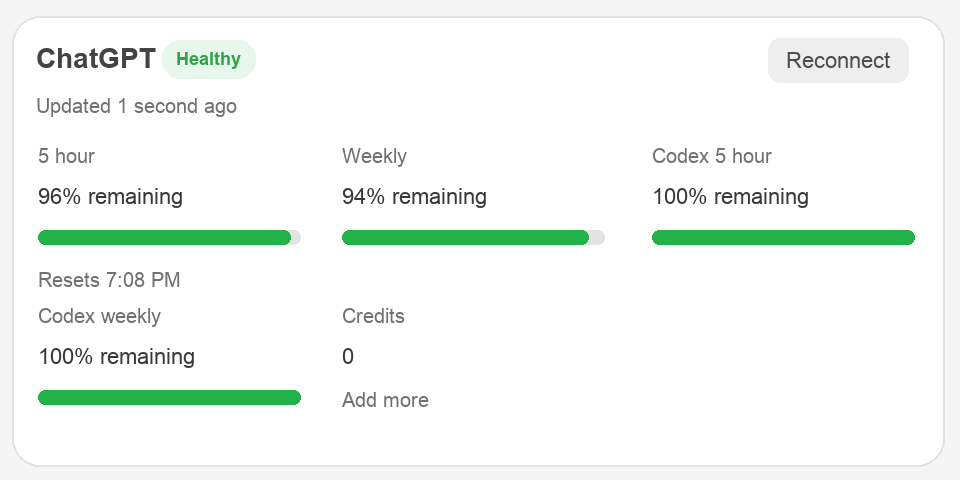
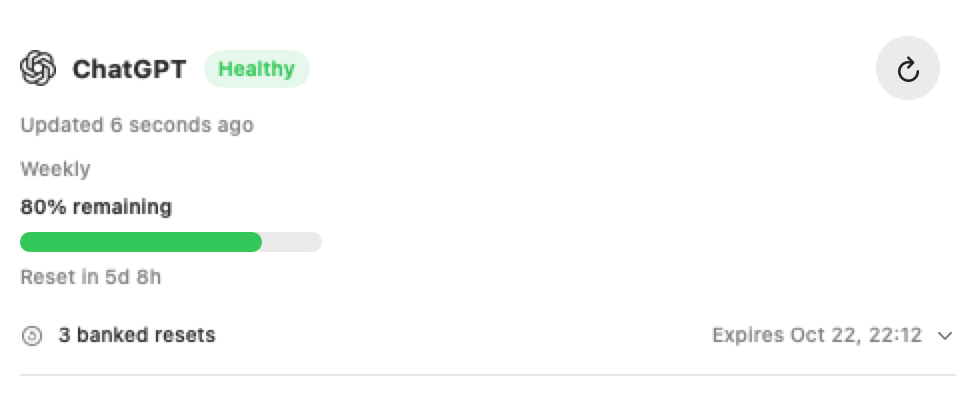
release: prepare 1.0.43 downloads and current app showcase

diff --git a/landing/index.html b/landing/index.html
@@ -4,7 +4,7 @@
   <meta charset="utf-8">
   <meta name="viewport" content="width=device-width, initial-scale=1">
   <title>Token Monitor for macOS | Claude, ChatGPT &amp; Codex usage</title>
-  <meta name="description" content="See Claude, ChatGPT, Codex, and optional OpenCode Go usage from one local macOS menu bar app. Check limits, reset windows, and connection status without opening multiple dashboards.">
+  <meta name="description" content="Check remaining Claude, ChatGPT/Codex and OpenCode Go capacity in your Mac menu bar. Add multiple accounts and optionally explore local token usage by project or topic.">
   <meta name="theme-color" content="#090b13">
   <meta property="og:type" content="website">
   <meta property="og:title" content="Token Monitor for macOS">
@@ -139,6 +139,7 @@
     .detail-head { display: flex; align-items: center; justify-content: space-between; gap: 16px; margin-bottom: 16px; }
     .detail-head span { color: var(--green); font-size: .76rem; font-weight: 800; text-transform: uppercase; letter-spacing: .08em; }
     .detail img { display: block; width: 100%; border: 1px solid rgba(255,255,255,.10); border-radius: 12px; background: #fff; }
+    .detail p { margin: 16px 0 0; color: var(--muted); }
 
     .privacy-grid { display: grid; grid-template-columns: .9fr 1.1fr; gap: 64px; align-items: start; }
     .privacy-copy p { color: var(--muted); font-size: 1.06rem; }
@@ -264,23 +265,23 @@
           </div>
           <div data-lang="de">
             <h1>Deine AI-Limits. Einen Klick entfernt.</h1>
-            <p class="hero-copy">Sieh Nutzung und Reset-Zeiten, bevor eine lange Aufgabe ins Limit läuft. Token Monitor hält jeden Provider in deiner macOS-Menüleiste sichtbar.</p>
+            <p class="hero-copy">Sieh verbleibende Kapazität und Reset-Zeiten, bevor eine lange Aufgabe ins Limit läuft. Token Monitor hält jeden Provider in deiner macOS-Menüleiste sichtbar.</p>
           </div>
           <div class="actions">
-            <a class="button button-primary" href="https://github.com/MediaPublishing/token-monitor/releases/download/v1.0.42/TokenMonitor-macOS.dmg">
+            <a class="button button-primary" href="https://github.com/MediaPublishing/token-monitor/releases/download/v1.0.43/TokenMonitor-macOS.dmg">
               <span aria-hidden="true">↓</span>
               <span data-lang="en" class="active">Download for macOS</span><span data-lang="de">Für macOS laden</span>
             </a>
             <a class="button button-secondary" href="#product"><span data-lang="en" class="active">See the app</span><span data-lang="de">App ansehen</span></a>
           </div>
-          <p class="hero-note"><span>●</span> <span data-lang="en" class="active">Public preview v1.0.42 · macOS 14+</span><span data-lang="de">Öffentliche Preview v1.0.42 · macOS 14+</span></p>
+          <p class="hero-note"><span>●</span> <span data-lang="en" class="active">Public preview v1.0.43 · macOS 14+</span><span data-lang="de">Öffentliche Preview v1.0.43 · macOS 14+</span></p>
         </div>
 
         <div class="app-stage" aria-label="Token Monitor product preview">
           <div class="orb" aria-hidden="true"></div>
           <div class="window">
             <div class="window-bar"><span class="traffic" aria-hidden="true"><i></i><i></i><i></i></span><span>Token Monitor</span></div>
-            <img src="../assets/screenshots/app/dashboard.png" alt="Token Monitor dashboard showing Claude and ChatGPT usage">
+            <img src="../assets/screenshots/app/dashboard.png" alt="Token Monitor capacity dashboard with synthetic example data for ChatGPT, Claude and OpenCode Go">
           </div>
           <span class="provider-chip chip-claude">Claude</span>
           <span class="provider-chip chip-chatgpt">ChatGPT + Codex</span>
@@ -305,7 +306,7 @@
           <div data-lang="de"><h2>Wisse vor dem Start, ob noch genug Luft ist.</h2><p>Entscheidend ist nicht, wie viele Tokens ein Modell theoretisch hat. Entscheidend ist, ob dein Account für die nächste Aufgabe noch genug Kapazität hat.</p></div>
         </div>
         <div class="feature-grid">
-          <article class="feature"><div class="feature-icon">01</div><h3 data-lang="en" class="active">Check all providers together</h3><h3 data-lang="de">Alle Provider zusammen prüfen</h3><p data-lang="en" class="active">Claude, ChatGPT/Codex, and optional OpenCode Go stay visible. Add named accounts when you use more than one.</p><p data-lang="de">Claude, ChatGPT/Codex und optional OpenCode Go bleiben sichtbar. Weitere Accounts kannst du hinzufügen und benennen.</p></article>
+          <article class="feature"><div class="feature-icon">01</div><h3 data-lang="en" class="active">Check all providers together</h3><h3 data-lang="de">Alle Provider zusammen prüfen</h3><p data-lang="en" class="active">Claude, ChatGPT/Codex, and optional OpenCode Go stay visible. Name additional accounts and show them side by side in the menu bar.</p><p data-lang="de">Claude, ChatGPT/Codex und optional OpenCode Go bleiben sichtbar. Benenne weitere Accounts und zeige sie nebeneinander in der Menüleiste.</p></article>
           <article class="feature"><div class="feature-icon">02</div><h3 data-lang="en" class="active">Keep reset windows intact</h3><h3 data-lang="de">Reset-Fenster richtig einordnen</h3><p data-lang="en" class="active">Daily, weekly, session, model, and credit limits stay separate because providers do not measure usage the same way.</p><p data-lang="de">Daily, Weekly, Session, Modell und Credits bleiben getrennt, weil Provider Nutzung unterschiedlich messen.</p></article>
           <article class="feature"><div class="feature-icon">03</div><h3 data-lang="en" class="active">Keep saved resets in mind</h3><h3 data-lang="de">Gespeicherte Resets im Blick behalten</h3><p data-lang="en" class="active">Check banked ChatGPT/Codex resets and their expiry. Enable local reminders 3 days ahead with macOS permission. Resets are never used automatically.</p><p data-lang="de">Prüfe gespeicherte ChatGPT-/Codex-Resets samt Ablaufdatum. Aktiviere mit macOS-Freigabe lokale Erinnerungen 3 Tage vorher. Resets werden nie automatisch eingelöst.</p></article>
         </div>
@@ -317,12 +318,15 @@
         <div class="showcase">
           <div class="showcase-top">
             <div><div class="kicker active" data-lang="en">Real app interface</div><div class="kicker" data-lang="de">Echte App-Ansicht</div><h2 data-lang="en" class="active">The current state at a glance.</h2><h2 data-lang="de">Der aktuelle Stand auf einen Blick.</h2></div>
-            <p data-lang="en" class="active">Token Monitor preserves the language and limits of each provider. Green means capacity remains. Authentication and stale states stay visible instead of being hidden.</p><p data-lang="de">Token Monitor bewahrt die Logik und Limits jedes Providers. Grün zeigt verbleibende Kapazität. Login- und veraltete Zustände bleiben sichtbar, statt versteckt zu werden.</p>
+            <p data-lang="en" class="active">Choose Session, Total or Both for menu-bar capacity. The popover fits your accounts and expanded details; it scrolls only when the screen cannot fit them. Authentication and stale states remain visible.</p><p data-lang="de">Wähle Session, Total oder Both für die Menüleisten-Kapazität. Das Popover passt sich deinen Accounts und aufgeklappten Details an. Es scrollt nur, wenn der Bildschirm nicht genug Platz bietet. Login- und veraltete Zustände bleiben sichtbar.</p>
           </div>
-          <div class="dashboard-frame"><img src="../assets/screenshots/app/dashboard.png" alt="Full Token Monitor menu bar dashboard"></div>
+          <p class="hero-note"><span data-lang="en" class="active">Native app views · Example data · Version 1.0.43</span><span data-lang="de">Native App-Ansichten · Beispieldaten · Version 1.0.43</span></p>
+          <div class="dashboard-frame"><img src="../assets/screenshots/app/dashboard.png" alt="Full Token Monitor capacity dashboard with synthetic example data"></div>
           <div class="details-grid">
             <article class="detail"><div class="detail-head"><h3>Claude</h3><span data-lang="en" class="active">Session + models</span><span data-lang="de">Session + Modelle</span></div><img src="../assets/screenshots/app/claude.png" alt="Claude usage details in Token Monitor"></article>
-            <article class="detail"><div class="detail-head"><h3>ChatGPT + Codex</h3><span data-lang="en" class="active">Daily + weekly</span><span data-lang="de">Daily + Weekly</span></div><img src="../assets/screenshots/app/chatgpt.png" alt="ChatGPT and Codex usage details in Token Monitor"></article>
+            <article class="detail"><div class="detail-head"><h3>ChatGPT + Codex</h3><span data-lang="en" class="active">Limits + saved resets</span><span data-lang="de">Limits + Resets</span></div><img src="../assets/screenshots/app/chatgpt.png" alt="ChatGPT capacity and saved resets with example data"></article>
+            <article class="detail"><div class="detail-head"><h3 data-lang="en" class="active">Local analysis</h3><h3 data-lang="de">Lokale Analyse</h3><span data-lang="en" class="active">Optional</span><span data-lang="de">Optional</span></div><img src="../assets/screenshots/app/analysis.png" alt="Optional local project analysis with expanded threads and synthetic data" width="976" height="812" loading="lazy"><p data-lang="en" class="active">Enable Show analysis in Settings. Group recorded Codex and Claude Code tokens by project or assigned topic, then expand a group to its threads. Local logs may be incomplete; this is not your remaining provider capacity. No money estimates or history timeline.</p><p data-lang="de">Aktiviere Show analysis in den Settings. Gruppiere erfasste Codex- und Claude-Code-Tokens nach Projekt oder zugewiesenem Thema und klappe die Threads auf. Lokale Protokolle können unvollständig sein; das ist nicht deine verbleibende Provider-Kapazität. Ohne Geldschätzungen und Verlauf.</p></article>
+            <article class="detail"><div class="detail-head"><h3>Settings</h3><span data-lang="en" class="active">Your preferences</span><span data-lang="de">Deine Einstellungen</span></div><img src="../assets/screenshots/app/settings.png" alt="Compact Token Monitor Settings with provider logos and version number" width="976" height="1482" loading="lazy"><p data-lang="en" class="active">Keep named accounts, menu-bar limits, reset reminders and optional analysis together. Notification permission problems link directly to macOS Settings.</p><p data-lang="de">Verwalte benannte Accounts, Menüleisten-Limits, Reset-Erinnerungen und optionale Analyse an einem Ort. Bei fehlender Mitteilungsfreigabe öffnest du direkt die passenden macOS-Einstellungen.</p></article>
           </div>
         </div>
       </div>
@@ -335,7 +339,7 @@
           <div data-lang="en" class="active"><h2>Your usage check stays on your Mac.</h2><p>Token Monitor uses separate embedded WebKit sessions for each provider. It does not require a hosted Token Monitor account or merge your providers into a remote dashboard.</p></div>
           <div data-lang="de"><h2>Dein Usage-Check bleibt auf deinem Mac.</h2><p>Token Monitor nutzt getrennte eingebettete WebKit-Sessions für jeden Provider. Die App braucht kein gehostetes Token-Monitor-Konto und führt deine Provider nicht in einem fremden Online-Dashboard zusammen.</p></div>
           <ul class="checks">
-            <li data-lang="en" class="active">Separate login storage for every provider</li><li data-lang="de">Getrennter Login-Speicher für jeden Provider</li>
+            <li data-lang="en" class="active">Separate persistent login storage for every account</li><li data-lang="de">Eigener dauerhafter Login-Speicher für jeden Account</li>
             <li data-lang="en" class="active">Latest successful usage snapshots stored locally</li><li data-lang="de">Letzte erfolgreiche Usage-Snapshots lokal gespeichert</li>
             <li data-lang="en" class="active">Debug mode off by default</li><li data-lang="de">Debug-Modus standardmäßig aus</li>
             <li data-lang="en" class="active">Open source and independently inspectable</li><li data-lang="de">Open Source und unabhängig prüfbar</li>
@@ -379,8 +383,8 @@
         <div class="faq">
           <details><summary data-lang="en" class="active">Do I need Claude, ChatGPT, and OpenCode Go?</summary><summary data-lang="de">Brauche ich Claude, ChatGPT und OpenCode Go?</summary><p data-lang="en" class="active">No. Connect Claude, ChatGPT, or both. OpenCode Go monitoring is optional and off by default.</p><p data-lang="de">Nein. Verbinde Claude, ChatGPT oder beide. OpenCode Go ist optional und standardmäßig ausgeschaltet.</p></details>
           <details><summary data-lang="en" class="active">Does Token Monitor reuse browser cookies?</summary><summary data-lang="de">Verwendet Token Monitor meine Browser-Cookies?</summary><p data-lang="en" class="active">No. Every provider uses its own persistent WebKit session inside the app.</p><p data-lang="de">Nein. Jeder Provider nutzt eine eigene persistente WebKit-Session in der App.</p></details>
-          <details><summary data-lang="en" class="active">Can I use multiple accounts with one provider?</summary><summary data-lang="de">Kann ich mehrere Accounts eines Providers nutzen?</summary><p data-lang="en" class="active">Yes. Add and name accounts in Settings. Each additional account has separate persistent sign-in data and its own dashboard section. Select which account appears in the menu bar.</p><p data-lang="de">Ja. In den Settings kannst du Accounts hinzufügen und benennen. Jeder zusätzliche Account hat eigene dauerhafte Login-Daten und einen eigenen Dashboard-Bereich. Du wählst aus, welcher Account in der Menüleiste erscheint.</p></details>
-          <details><summary data-lang="en" class="active">How does Token Monitor update?</summary><summary data-lang="de">Wie wird Token Monitor aktualisiert?</summary><p data-lang="en" class="active">The automatic update checks are off by default. Enable them in Settings to check immediately and hourly. Available updates appear in the menu bar and dashboard; choose Review Update to confirm installation. Manual checks and update diagnostics are also available. Updates preserve your sign-ins.</p><p data-lang="de">Ab Version 1.0.22 sind automatische Update-Prüfungen standardmäßig aus. Aktiviere sie in den Settings, um sofort und danach stündlich zu prüfen. Verfügbare Updates erscheinen in Menüleiste und Dashboard; mit Review Update bestätigst du die Installation. Manuelle Prüfungen und Update-Diagnosen sind ebenfalls verfügbar. Updates erhalten deine Anmeldungen.</p></details>
+          <details><summary data-lang="en" class="active">Can I use multiple accounts with one provider?</summary><summary data-lang="de">Kann ich mehrere Accounts eines Providers nutzen?</summary><p data-lang="en" class="active">Yes. Add and name accounts with + in Settings. Each account has its own persistent sign-in and capacity section. Show up to four accounts per provider side by side in the menu bar. Changing the selected account displays its cached capacity immediately.</p><p data-lang="de">Ja. Füge mit + in den Settings Accounts hinzu und benenne sie. Jeder Account hat einen eigenen dauerhaften Login und Kapazitätsbereich. Zeige bis zu vier Accounts je Provider nebeneinander in der Menüleiste. Beim Kontowechsel erscheint die zuletzt erfasste Kapazität sofort.</p></details>
+          <details><summary data-lang="en" class="active">How does Token Monitor update?</summary><summary data-lang="de">Wie wird Token Monitor aktualisiert?</summary><p data-lang="en" class="active">From 1.0.43, automatic update checks are on by default. An existing opt-out is preserved; enable checks in Settings to check immediately and hourly. Choose Review Update to confirm installation. Updates preserve local sign-in storage, though providers can still require reauthentication.</p><p data-lang="de">Ab 1.0.43 sind automatische Update-Prüfungen standardmäßig eingeschaltet. Eine bereits gespeicherte Abschaltung bleibt erhalten. Aktiviere den Schalter in den Settings, um sofort und danach stündlich zu prüfen. Mit Review Update bestätigst du die Installation. Updates erhalten den lokalen Login-Speicher; Provider können trotzdem eine erneute Anmeldung verlangen.</p></details>
           <details><summary data-lang="en" class="active">Is this an official Anthropic or OpenAI app?</summary><summary data-lang="de">Ist das eine offizielle App von Anthropic oder OpenAI?</summary><p data-lang="en" class="active">No. Token Monitor is an independent open-source utility and is not affiliated with Anthropic, OpenAI, or Apple.</p><p data-lang="de">Nein. Token Monitor ist ein unabhängiges Open-Source-Werkzeug und nicht mit Anthropic, OpenAI oder Apple verbunden.</p></details>
           <details><summary data-lang="en" class="active">Why is Token Monitor missing from Login Items?</summary><summary data-lang="de">Warum fehlt Token Monitor bei den Anmeldeobjekten?</summary><p data-lang="en" class="active">Launch at login uses Apple's ServiceManagement API, which expects a code-signed app. Move TokenMonitor.app to Applications, open it once, and enable Launch at login in Settings.</p><p data-lang="de">Launch at login nutzt Apples ServiceManagement-API, die eine signierte App erwartet. Verschiebe TokenMonitor.app nach Applications, öffne sie einmal und aktiviere Launch at login in den Settings.</p></details>
         </div>
@@ -391,7 +395,7 @@
       <div class="shell final-panel">
         <h2 data-lang="en" class="active">Start the next task with the limit in view.</h2><h2 data-lang="de">Starte die nächste Aufgabe mit dem Limit im Blick.</h2>
         <p data-lang="en" class="active">Download the current public preview for macOS or inspect the complete source code on GitHub.</p><p data-lang="de">Lade die aktuelle öffentliche Preview für macOS oder prüfe den vollständigen Source Code auf GitHub.</p>
-        <div class="actions"><a class="button button-primary" href="https://github.com/MediaPublishing/token-monitor/releases/download/v1.0.42/TokenMonitor-macOS.dmg"><span aria-hidden="true">↓</span><span data-lang="en" class="active">Download v1.0.42</span><span data-lang="de">v1.0.42 laden</span></a><a class="button button-secondary" href="https://github.com/MediaPublishing/token-monitor" target="_blank" rel="noopener noreferrer">View on GitHub</a></div>
+        <div class="actions"><a class="button button-primary" href="https://github.com/MediaPublishing/token-monitor/releases/download/v1.0.43/TokenMonitor-macOS.dmg"><span aria-hidden="true">↓</span><span data-lang="en" class="active">Download v1.0.43</span><span data-lang="de">v1.0.43 laden</span></a><a class="button button-secondary" href="https://github.com/MediaPublishing/token-monitor" target="_blank" rel="noopener noreferrer">View on GitHub</a></div>
       </div>
     </section>
   </main>

diff --git a/scripts/native-layout-proof.swift b/scripts/native-layout-proof.swift
@@ -113,11 +113,62 @@ private struct LayoutFixtureAccounts: AccountPersisting {
         precondition(height("capacity-two-light") < height("capacity-three-light"))
         precondition(height("capacity-three-light") < height("capacity-details-light"))
         precondition(height("analysis-closed-light") < height("analysis-open-light"))
+        if CommandLine.arguments.contains("--marketing") {
+            try await writeMarketingScreenshots(analytics: analytics, snapshots: snapshots, window: window, output: output)
+        }
         let data = try JSONSerialization.data(withJSONObject: ["scope": "Native SwiftUI views, synthetic accounts only", "logos": "all decoded as vector PDF", "scenarios": records], options: [.prettyPrinted, .sortedKeys])
         try data.write(to: output.appendingPathComponent("native-layout-proof.json"))
         print("NATIVE_LAYOUT_PROOF_PASS \(String(decoding: data, as: UTF8.self))")
         fflush(stdout)
         window.close()
+    }
+
+    private static func writeMarketingScreenshots(analytics: ProjectAnalyticsModel, snapshots: [ServiceKind: ServiceSnapshot], window: NSWindow, output: URL) async throws {
+        UserDefaults.standard.set(true, forKey: "openCodeGoEnabled")
+        UserDefaults.standard.set(false, forKey: "showUsageDetails")
+        let model = AppModel(snapshotStore: LayoutFixtureSnapshots(snapshots: snapshots),
+                             accountStore: LayoutFixtureAccounts(count: 3, snapshots: snapshots), analytics: analytics)
+        model.popoverMaximumHeight = 900
+        model.showDashboardInPopover()
+        window.appearance = NSAppearance(named: .aqua)
+        let statuses = model.dashboardServices.map { status in
+            var ready = status
+            ready.refreshState = .success(lastSuccess: status.snapshot!.capturedAt)
+            return ready
+        }
+
+        func capture<Content: View>(_ content: Content, name: String) async throws {
+            let hosting = NSHostingController(rootView: content.environmentObject(model).frame(width: 488)
+                .fixedSize(horizontal: false, vertical: true).background(Color(nsColor: .windowBackgroundColor)))
+            window.contentViewController = hosting
+            window.setContentSize(NSSize(width: 488, height: 180))
+            for _ in 0..<12 { try await Task.sleep(for: .milliseconds(50)) }
+            window.setContentSize(hosting.view.fittingSize)
+            hosting.view.layoutSubtreeIfNeeded()
+            let bounds = hosting.view.bounds
+            let bitmap = NSBitmapImageRep(bitmapDataPlanes: nil, pixelsWide: Int(bounds.width * 2), pixelsHigh: Int(bounds.height * 2),
+                                         bitsPerSample: 8, samplesPerPixel: 4, hasAlpha: true, isPlanar: false,
+                                         colorSpaceName: .deviceRGB, bytesPerRow: 0, bitsPerPixel: 0)!
+            bitmap.size = bounds.size
+            hosting.view.cacheDisplay(in: bounds, to: bitmap)
+            try bitmap.representation(using: .png, properties: [:])!.write(to: output.appendingPathComponent(name + ".png"))
+        }
+
+        try await capture(VStack(alignment: .leading, spacing: 10) {
+            PopoverHeaderView(analytics: analytics)
+            VStack(spacing: 0) {
+                ForEach(statuses, id: \.service) { ServiceSectionView(status: $0) }
+            }
+        }.padding(10), name: "dashboard")
+        for status in statuses where status.service != .openCodeGo {
+            try await capture(ServiceSectionView(status: status).padding(10), name: status.service == .claude ? "claude" : "chatgpt")
+        }
+        if let first = analytics.groups.first { analytics.setExpanded(first.id, true) }
+        model.showAnalyticsInPopover()
+        try await capture(PopoverRootView(), name: "analysis")
+        model.showSettingsInPopover()
+        try await capture(PopoverRootView(), name: "settings")
+        print("MARKETING_SCREENSHOTS_PASS: native production views, synthetic data, 2x display scale")
     }
 
     private static func scrollViews(in view: NSView) -> [NSScrollView] {

diff --git a/Tests/TokenMonitorCoreTests/MarketingAssetTests.swift b/Tests/TokenMonitorCoreTests/MarketingAssetTests.swift
@@ -98,8 +98,17 @@ struct MarketingAssetTests {
         #expect(landingHTML.contains("Open Anyway"))
         #expect(landingHTML.contains("Dennoch öffnen"))
         #expect(landingHTML.contains("Login Items"))
-        #expect(landingHTML.contains("automatic update checks are off by default"))
-        #expect(landingHTML.contains("automatische Update-Prüfungen standardmäßig aus"))
+        #expect(landingHTML.contains("automatic update checks are on by default"))
+        #expect(landingHTML.contains("automatische Update-Prüfungen standardmäßig eingeschaltet"))
+        #expect(landingHTML.contains("An existing opt-out is preserved"))
+        #expect(landingHTML.contains("Show analysis"))
+        #expect(landingHTML.contains("Local logs may be incomplete"))
+        #expect(landingHTML.contains("Example data"))
+        for asset in ["analysis", "settings"] {
+            let path = "assets/screenshots/app/\(asset).png"
+            #expect(landingHTML.contains(path))
+            #expect(FileManager.default.fileExists(atPath: rootURL.appendingPathComponent(path).path))
+        }
         #expect(!landingHTML.contains("Would a PKG avoid"))
         #expect(!landingHTML.contains("How do updates work?"))
         let dmgScript = try String(contentsOf: dmgScriptURL, encoding: .utf8)

diff --git a/README.md b/README.md
@@ -5,12 +5,12 @@
 **Token Monitor** ist ein nativer macOS-Menüleisten-Begleiter für Claude, ChatGPT/Codex und optional OpenCode Go: provider-spezifische Limits, getrennte Sessions und Hintergrund-Refresh in einer schlanken Desktop-App.
 
 <p>
-  <a href="https://github.com/MediaPublishing/token-monitor/releases/download/v1.0.42/TokenMonitor-macOS.dmg">
+  <a href="https://github.com/MediaPublishing/token-monitor/releases/download/v1.0.43/TokenMonitor-macOS.dmg">
     <img alt="Download" src="https://img.shields.io/badge/Download-DMG-0A7CFF?style=for-the-badge&logo=apple&logoColor=white">
   </a>
 </p>
 
-> **Repository status / Repository-Status:** Public preview. Current preview release: `v1.0.42`.
+> **Repository status / Repository-Status:** Public preview. Current preview release: `v1.0.43` (build 52).
 
 ![macOS 14+](https://img.shields.io/badge/macOS-14%2B-blue)
 ![Swift 6+](https://img.shields.io/badge/Swift-6%2B-orange)
@@ -20,6 +20,8 @@
 ### Dashboard
 ![Token Monitor dashboard screenshot](assets/screenshots/app/dashboard.png)
 
+Native app views with synthetic example data, not private account usage. / Native App-Ansichten mit synthetischen Beispieldaten, keine privaten Kontodaten.
+
 Watch Claude and ChatGPT/Codex side by side from the macOS menu bar. Enable OpenCode Go in Settings when you want to track its Rolling, Weekly, and Monthly usage too.
 
 Claude und ChatGPT/Codex bleiben direkt in der macOS-Menüleiste nebeneinander sichtbar. OpenCode Go lässt sich in den Settings optional zuschalten.
@@ -27,16 +29,26 @@ Claude und ChatGPT/Codex bleiben direkt in der macOS-Menüleiste nebeneinander s
 ### Claude Usage
 ![Token Monitor Claude usage screenshot](assets/screenshots/app/claude.png)
 
-Keep Claude usage source-native: session, model, Sonnet, balance, extra usage, and reset timing stay separate.
+Keep Claude session, all-model and Fable limits separate, with remaining capacity and reset timing.
 
-Claude bleibt quellnah: Session, Modell, Sonnet, Balance, Extra Usage und Reset-Zeit werden getrennt angezeigt.
+Session, All models und Fable bleiben getrennt, mit verbleibender Kapazität und Reset-Zeiten.
 
 ### ChatGPT + Codex Usage
 ![Token Monitor ChatGPT usage screenshot](assets/screenshots/app/chatgpt.png)
 
-Track ChatGPT daily, weekly, Codex, and credit limits without digging through browser tabs.
+Track the limits reported by ChatGPT/Codex and saved resets without digging through browser tabs.
 
-ChatGPT Daily, Weekly, Codex und Credits bleiben sichtbar, ohne Browser-Tab-Suche.
+Die von ChatGPT/Codex gemeldeten Limits und gespeicherte Resets bleiben ohne Browser-Tab-Suche sichtbar.
+
+### Optional Local Analysis
+![Token Monitor local project analysis with example data](assets/screenshots/app/analysis.png)
+
+Enable **Settings > Project details > Show analysis** to group recorded Codex and Claude Code tokens by project, or by manually assigned topic. Expand a group to its threads. Local logs can be incomplete; these totals are not the provider's remaining capacity. No cost estimates or thread-history timeline.
+
+Mit **Settings > Project details > Show analysis** gruppierst du erfasste Codex- und Claude-Code-Tokens nach Projekt oder selbst zugewiesenem Thema. Gruppen klappen direkt zu ihren Threads auf. Lokale Protokolle können unvollständig sein; die Summen sind nicht die verbleibende Provider-Kapazität. Keine Geldschätzung und kein Thread-Verlauf.
+
+### Settings
+![Token Monitor compact Settings](assets/screenshots/app/settings.png)
 
 ---
 
@@ -77,7 +89,7 @@ Normal users should install from the GitHub Release DMG:
 Current preview release download:
 
 ```text
-https://github.com/MediaPublishing/token-monitor/releases/download/v1.0.42/TokenMonitor-macOS.dmg
+https://github.com/MediaPublishing/token-monitor/releases/download/v1.0.43/TokenMonitor-macOS.dmg
 ```
 
 #### Gatekeeper: If macOS says "TokenMonitor.app" Not Opened
@@ -110,7 +122,7 @@ Token Monitor tries to register itself as a login item when **Launch at login** 
 
 #### Updates
 
-Automatic update checks are off by default from version `1.0.22` through public version `1.0.42`. Local preview `1.0.43 (49)` enables automatic checks by default, while preserving an existing opt-out. From version `1.0.41`, enabling **Automatically check for updates** checks immediately, then hourly while the app is running. An **Update** indicator in the menu bar and a **Review Update** button in the dashboard make available updates visible without hidden background windows. Review and confirm installation in Sparkle; enabling checks does not enable silent installation. **Check for Updates...** remains available in Settings. The debug report includes update timing, preferences, results, and error codes. Existing sign-ins are preserved.
+Automatic update checks are off by default from version `1.0.22` through public version `1.0.42`. Version `1.0.43` enables automatic checks by default, while preserving an existing opt-out. From version `1.0.41`, enabling **Automatically check for updates** checks immediately, then hourly while the app is running. An **Update** indicator in the menu bar and a **Review Update** button in the dashboard make available updates visible without hidden background windows. Review and confirm installation in Sparkle; enabling checks does not enable silent installation. **Check for Updates...** remains available in Settings. The debug report includes update timing, preferences, results, and error codes. Existing sign-ins are preserved.
 
 #### Optional OpenCode Go
 
@@ -124,7 +136,7 @@ Version 1.0.38 reads Claude's updated **This week** and **Fable this week** usag
 
 In **Settings > Providers**, click **+** next to Claude, ChatGPT, or OpenCode Go to add another account. Give it a name with **More > Rename**. Each additional account keeps its own persistent sign-in and appears separately in the dashboard. The original account and its existing sign-in stay in place. Choose **Show in menu bar** on the account whose capacity the provider's menu-bar indicator should show. Disconnecting or removing an additional account clears only that account's login data. The original provider accounts remain available for compatibility with previous versions.
 
-**Local preview 1.0.43 (52):** Capacity, analysis, and Settings resize to their content, with scrolling only when the active display cannot fit the content. The existing native toolbar gains an optional analysis icon. Genuine, bundled vector provider logos accompany visible account names and render natively at the display's scale. Toolbar focus uses the full button outline only during keyboard navigation, not after opening the popover or clicking with the mouse. Project details expand directly to threads; token counts and shares appear together, with neutral usage bars. Settings use aligned rows, and reset reminders report notification permission problems and target the correct ChatGPT account. Switching the menu-bar account updates its cached capacity immediately, without a manual refresh. **Show alongside in menu bar** adds another account in a separate column; **Hide from menu bar** removes it from the indicator without disconnecting it. Up to four accounts per provider can be shown, with names and column order in the tooltip. **Move to first menu bar column** changes their order. Public downloads remain on 1.0.42.
+**Version 1.0.43 (52):** Capacity, analysis, and Settings resize to their content, with scrolling only when the active display cannot fit the content. The existing native toolbar gains an optional analysis icon. Genuine, bundled vector provider logos accompany visible account names and render natively at the display's scale. Toolbar focus uses the full button outline only during keyboard navigation, not after opening the popover or clicking with the mouse. Project details expand directly to threads; token counts and shares appear together, with neutral usage bars. Settings use aligned rows, and reset reminders report notification permission problems and target the correct ChatGPT account. Switching the menu-bar account updates its cached capacity immediately, without a manual refresh. **Show alongside in menu bar** adds another account in a separate column; **Hide from menu bar** removes it from the indicator without disconnecting it. Up to four accounts per provider can be shown, with names and column order in the tooltip. **Move to first menu bar column** changes their order.
 
 ChatGPT Connect now starts on the home page and waits for a positive sign-in signal before opening usage. Blank or canceled loads never reload the login form. If automatic detection is unavailable, **Read usage** opens the usage page after you finish signing in. A connection is completed only after real usage metrics are parsed. No cookies are cleared by this recovery flow.
 
@@ -211,7 +223,7 @@ Normale Nutzer sollten über das GitHub-Release-DMG installieren:
 Aktueller Preview-Release-Download:
 
 ```text
-https://github.com/MediaPublishing/token-monitor/releases/download/v1.0.42/TokenMonitor-macOS.dmg
+https://github.com/MediaPublishing/token-monitor/releases/download/v1.0.43/TokenMonitor-macOS.dmg
 ```
 
 #### Gatekeeper: Wenn macOS "TokenMonitor.app" nicht öffnet
@@ -244,7 +256,7 @@ Token Monitor versucht, sich als Login Item zu registrieren, wenn **Launch at lo
 
 #### Updates
 
-Automatische Update-Prüfungen sind ab Version `1.0.22` standardmäßig aus, bis einschließlich der öffentlichen Version `1.0.42`. Die lokale Vorschau `1.0.43 (49)` aktiviert automatische Prüfungen standardmäßig, respektiert aber eine bereits gespeicherte Abschaltung. Ab Version `1.0.41` prüft **Automatically check for updates** beim Einschalten sofort und danach stündlich, solange die App läuft. Ein **Update**-Hinweis in der Menüleiste und **Review Update** im Dashboard machen verfügbare Updates sichtbar, statt ein Fenster im Hintergrund zu verstecken. Die Installation wird in Sparkle bestätigt; der Schalter aktiviert keine stille Installation. **Check for Updates...** bleibt in den Settings verfügbar. Der Debug-Bericht enthält Prüfzeiten, Update-Einstellungen, Ergebnisse und Fehlercodes. Bestehende Anmeldungen bleiben erhalten.
+Automatische Update-Prüfungen sind ab Version `1.0.22` standardmäßig aus, bis einschließlich der öffentlichen Version `1.0.42`. Version `1.0.43` aktiviert automatische Prüfungen standardmäßig, respektiert aber eine bereits gespeicherte Abschaltung. Ab Version `1.0.41` prüft **Automatically check for updates** beim Einschalten sofort und danach stündlich, solange die App läuft. Ein **Update**-Hinweis in der Menüleiste und **Review Update** im Dashboard machen verfügbare Updates sichtbar, statt ein Fenster im Hintergrund zu verstecken. Die Installation wird in Sparkle bestätigt; der Schalter aktiviert keine stille Installation. **Check for Updates...** bleibt in den Settings verfügbar. Der Debug-Bericht enthält Prüfzeiten, Update-Einstellungen, Ergebnisse und Fehlercodes. Bestehende Anmeldungen bleiben erhalten.
 
 #### Optionales OpenCode Go
 
@@ -258,7 +270,7 @@ Version 1.0.38 liest Claudes neue Nutzungslabels **This week** und **Fable this 
 
 Unter **Settings > Providers** kannst du mit **+** für Claude, ChatGPT oder OpenCode Go weitere Accounts hinzufügen und über **More > Rename** benennen. Jeder zusätzliche Account bekommt eine eigene dauerhafte Anmeldung und erscheint separat im Dashboard. Der bisherige Account samt Login bleibt bestehen. Mit **Show in menu bar** bestimmst du, welcher Account eines Providers die Balken in der Menüleiste liefert. Das Trennen oder Entfernen eines zusätzlichen Accounts löscht nur dessen Login-Daten.
 
-**Lokale Vorschau 1.0.43 (52):** Kapazität, Analyse und Settings passen ihre Höhe an den Inhalt an. Nur wenn der Platz auf dem aktiven Bildschirm nicht reicht, wird gescrollt. Die native Kopfzeile erhält ein optionales Analyse-Icon. Echte, lokal gebündelte Vektorlogos stehen neben den lesbaren Kontonamen und werden nativ in der Bildschirmauflösung gezeichnet. Der Toolbar-Fokus verwendet den ganzen Button-Rahmen nur bei Tastaturbedienung, nicht beim Öffnen oder nach Mausklicks. Projekte klappen direkt zu ihren Threads auf; Tokenzahl und Anteil stehen zusammen, die Analysebalken bleiben neutral. Die Settings sind in abgestimmten Zeilen angeordnet. Reset-Erinnerungen zeigen Berechtigungsprobleme an und öffnen das richtige ChatGPT-Konto. Beim Kontowechsel zeigt die Menüleiste sofort die zuletzt erfasste Kapazität des gewählten Kontos, ohne manuellen Refresh. Mit **Show alongside in menu bar** erscheint ein weiteres Konto in einer eigenen Spalte daneben. **Hide from menu bar** blendet es nur aus, ohne es zu trennen. Bis zu vier Konten je Anbieter sind möglich; Namen und Spaltenreihenfolge stehen im Tooltip. **Move to first menu bar column** ändert die Reihenfolge. Der öffentliche Download bleibt auf 1.0.42.
+**Version 1.0.43 (52):** Kapazität, Analyse und Settings passen ihre Höhe an den Inhalt an. Nur wenn der Platz auf dem aktiven Bildschirm nicht reicht, wird gescrollt. Die native Kopfzeile erhält ein optionales Analyse-Icon. Echte, lokal gebündelte Vektorlogos stehen neben den lesbaren Kontonamen und werden nativ in der Bildschirmauflösung gezeichnet. Der Toolbar-Fokus verwendet den ganzen Button-Rahmen nur bei Tastaturbedienung, nicht beim Öffnen oder nach Mausklicks. Projekte klappen direkt zu ihren Threads auf; Tokenzahl und Anteil stehen zusammen, die Analysebalken bleiben neutral. Die Settings sind in abgestimmten Zeilen angeordnet. Reset-Erinnerungen zeigen Berechtigungsprobleme an und öffnen das richtige ChatGPT-Konto. Beim Kontowechsel zeigt die Menüleiste sofort die zuletzt erfasste Kapazität des gewählten Kontos, ohne manuellen Refresh. Mit **Show alongside in menu bar** erscheint ein weiteres Konto in einer eigenen Spalte daneben. **Hide from menu bar** blendet es nur aus, ohne es zu trennen. Bis zu vier Konten je Anbieter sind möglich; Namen und Spaltenreihenfolge stehen im Tooltip. **Move to first menu bar column** ändert die Reihenfolge.
 
 ChatGPT Connect startet auf der Startseite und öffnet die Nutzung erst nach einem positiven Anmeldenachweis. Leere oder abgebrochene Ladevorgänge laden das Login-Formular nicht neu. Falls die automatische Erkennung ausfällt, öffnet **Read usage** nach abgeschlossener Anmeldung die Nutzungsseite. Erst erfolgreich gelesene Nutzungswerte schließen die Verbindung ab. Dabei werden keine Cookies gelöscht.
 

diff --git a/docs/privacy.md b/docs/privacy.md
@@ -1,6 +1,6 @@
 # Token Monitor Privacy
 
-Last reviewed: 2026-05-13
+Last reviewed: 2026-10-12
 
 Token Monitor is designed as a local macOS utility. It does not require a Token Monitor account and does not send usage data to Token Monitor server infrastructure.
 
@@ -18,6 +18,11 @@ Token Monitor can store data on your Mac, including:
 - Last known usage snapshots.
 - App settings such as refresh behavior, launch-at-login preference, and debug mode.
 - Opt-in diagnostic files when debug mode is enabled.
+- Optional project/topic assignments and token totals derived from local Codex and Claude Code logs when **Show analysis** is enabled.
+
+## Optional Local Analysis
+
+Project analysis is off by default. When enabled, Token Monitor reads supported local Codex and Claude Code session logs to aggregate recorded token usage by project or manually assigned topic. Expanded groups display local thread identifiers and any available titles. These records can be incomplete and are not a replacement for provider capacity limits. The app does not upload these logs, thread details, token totals or assignments to Token Monitor servers. Disable **Show analysis** to stop scanning; exclude either source in Settings. No pricing estimate or conversation-history timeline is generated.
 
 ## Data Sent To Token Monitor
 

diff --git a/assets/screenshots/app/README.md b/assets/screenshots/app/README.md
@@ -1,0 +1,12 @@
+# App screenshots
+
+Version: 1.0.43 (52). These are native SwiftUI/AppKit views captured with synthetic example data, not private account screenshots. Dashboard sections use the production `ServiceSectionView` with successful fixture refresh states; the Settings example shows restored, stale fixture accounts. Analysis totals come from generated local Codex/Claude Code fixtures. All provider logos use the app's genuine bundled vector assets.
+
+Regenerate with the isolated QA app:
+
+```bash
+bash scripts/build-analytics-qa.sh
+.build/analytics-qa/AnalyticsQA.app/Contents/MacOS/AnalyticsQA .build/marketing-home --proof .build/marketing-proof --marketing
+```
+
+The named `dashboard`, `claude`, `chatgpt`, `analysis` and `settings` PNGs are captured at a 2x bitmap size. No provider sign-in or network refresh is started. Native layout proofs are emitted separately. Landing-page captions explicitly label the examples.
